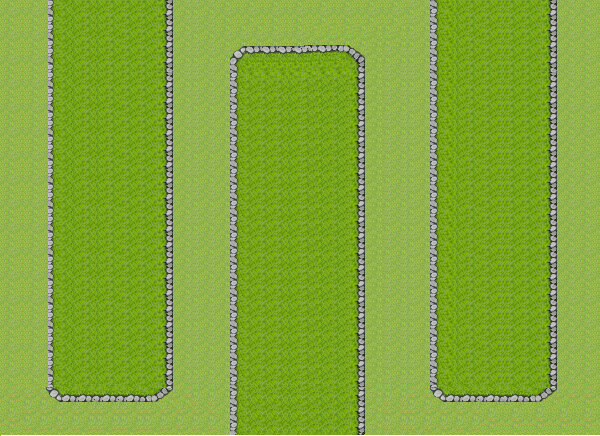
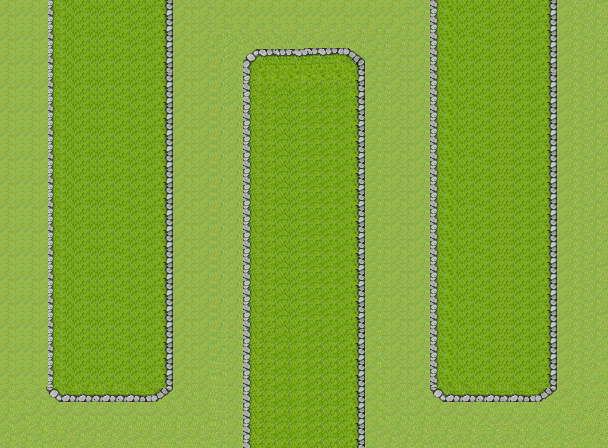
Updated map size and classes

diff --git a/tower_d/data/www/js/tower_d_libraries/Map.js b/tower_d/data/www/js/tower_d_libraries/Map.js
@@ -25,7 +25,7 @@ var Map = new Class({
         grid_is_displayed: false,
 
         //Cell size of the grid
-        cell_size: 24,
+        cell_size: 32,
 
         //Store a grid of all the cell objects. Should match up exactly
         //  to this.options.grid
@@ -33,26 +33,24 @@ var Map = new Class({
 
         //store a path
         path: [ //Top Left > Down
-                [1,0],[1,1],[1,2],[1,3],[1,4],[1,5],[1,6],[1,7],[1,8],[1,9],
-                [1,10], [1,11],[1,12],[1,13],[1,14],[1,15],[1,16],[1,17],
+                [0,0],[0,1],[0,2],[0,3],[0,4],[0,5],[0,6],[0,7],[0,8],[0,9],
+                [0,10], [0,11],[0,12],[0,13],
                 //Bottom Left > Right
-                [2,17],[3,17],[4,17],[5,17],[6,17],[7,17],[8,17],
+                [1,13],[2,13],[3,13],[4,13],[5,13],[6,13],
                 //Middle Left > Up
-                [8,16],[8,15],[8,14],[8,13],[8,12],[8,11],[8,10],[8,9],[8,8],
-                [8,7],[8,6],[8,5],[8,4],[8,3],[8,2],[8,1],[8,0],
+                [6,12],[6,11],[6,10],[6,9],[6,8],
+                [6,7],[6,6],[6,5],[6,4],[6,3],[6,2],[6,1],[6,0],
                 //Top Middle > Right
-                [9,0],[10,0],[11,0],[12,0],[13,0],[14,0],[15,0],[16,0],
+                [7,0],[8,0],[9,0],[10,0],[11,0],[12,0],
                 //Right Middle > Down
-                [16,1],[16,2],[16,3],[16,4],[16,5],[16,6],[16,7],[16,8],
-                [16,9],[16,10],[16,11],[16,12],[16,13],[16,14],[16,15],
-                [16,16],[16,17],
+                [12,1],[12,2],[12,3],[12,4],[12,5],[12,6],[12,7],[12,8],
+                [12,9],[12,10],[12,11],[12,12],[12,13],
                 //Right Bottom > Right
-                [17,17],[18,17],[18,17],[19,17],[20,17],[21,17],[22,17],
-                [23,17],[24,17],
+                [13,13],[14,13],[15,13],[16,13],[17,13],[18,13],
                 //Right Bottom > Top Right (To Goal)
-                [24,16],[24,15],[24,14],[24,13],[24,12],[24,11],[24,10],
-                [24,9],[24,8],[24,7],[24,6],[24,5],[24,4],[24,3],[24,2],
-                [24,1],[24,0]
+                [18,12],[18,11],[18,10],
+                [18,9],[18,8],[18,7],[18,6],[18,5],[18,4],[18,3],[18,2],
+                [18,1],[18,0]
             ] 
     },
 
@@ -66,24 +64,20 @@ var Map = new Class({
         if(this.options.grid === null){
             //Build a simple grid matrix
             this.options.grid = [
-                [0,0,1,1,1,1,1,0,0,0,0,0,0,0,0,0,0,0,1,1,1,1,1,0,0],
-                [0,0,1,1,1,1,1,0,0,0,0,0,0,0,0,0,0,0,1,1,1,1,1,0,0],
-                [0,0,1,1,1,1,1,0,0,0,1,1,1,1,1,0,0,0,1,1,1,1,1,0,0],
-                [0,0,1,1,1,1,1,0,0,0,1,1,1,1,1,0,0,0,1,1,1,1,1,0,0],
-                [0,0,1,1,1,1,1,0,0,0,1,1,1,1,1,0,0,0,1,1,1,1,1,0,0],
-                [0,0,1,1,1,1,1,0,0,0,1,1,1,1,1,0,0,0,1,1,1,1,1,0,0],
-                [0,0,1,1,1,1,1,0,0,0,1,1,1,1,1,0,0,0,1,1,1,1,1,0,0],
-                [0,0,1,1,1,1,1,0,0,0,1,1,1,1,1,0,0,0,1,1,1,1,1,0,0],
-                [0,0,1,1,1,1,1,0,0,0,1,1,1,1,1,0,0,0,1,1,1,1,1,0,0],
-                [0,0,1,1,1,1,1,0,0,0,1,1,1,1,1,0,0,0,1,1,1,1,1,0,0],
-                [0,0,1,1,1,1,1,0,0,0,1,1,1,1,1,0,0,0,1,1,1,1,1,0,0],
-                [0,0,1,1,1,1,1,0,0,0,1,1,1,1,1,0,0,0,1,1,1,1,1,0,0],
-                [0,0,1,1,1,1,1,0,0,0,1,1,1,1,1,0,0,0,1,1,1,1,1,0,0],
-                [0,0,1,1,1,1,1,0,0,0,1,1,1,1,1,0,0,0,1,1,1,1,1,0,0],
-                [0,0,1,1,1,1,1,0,0,0,1,1,1,1,1,0,0,0,1,1,1,1,1,0,0],
-                [0,0,1,1,1,1,1,0,0,0,1,1,1,1,1,0,0,0,1,1,1,1,1,0,0],
-                [0,0,1,1,1,1,1,0,0,0,1,1,1,1,1,0,0,0,1,1,1,1,1,0,0],
-                [0,0,0,0,0,0,0,0,0,0,1,1,1,1,1,0,0,0,1,1,1,1,1,0,0],
+                [0,0,1,1,1,0,0,0,0,0,0,0,0,0,1,1,1,0,0],
+                [0,0,1,1,1,0,0,0,0,0,0,0,0,0,1,1,1,0,0],
+                [0,0,1,1,1,0,0,0,1,1,1,0,0,0,1,1,1,0,0],
+                [0,0,1,1,1,0,0,0,1,1,1,0,0,0,1,1,1,0,0],
+                [0,0,1,1,1,0,0,0,1,1,1,0,0,0,1,1,1,0,0],
+                [0,0,1,1,1,0,0,0,1,1,1,0,0,0,1,1,1,0,0],
+                [0,0,1,1,1,0,0,0,1,1,1,0,0,0,1,1,1,0,0],
+                [0,0,1,1,1,0,0,0,1,1,1,0,0,0,1,1,1,0,0],
+                [0,0,1,1,1,0,0,0,1,1,1,0,0,0,1,1,1,0,0],
+                [0,0,1,1,1,0,0,0,1,1,1,0,0,0,1,1,1,0,0],
+                [0,0,1,1,1,0,0,0,1,1,1,0,0,0,1,1,1,0,0],
+                [0,0,1,1,1,0,0,0,1,1,1,0,0,0,1,1,1,0,0],
+                [0,0,0,0,0,0,0,0,1,1,1,0,0,0,1,1,1,0,0],
+                [0,0,0,0,0,0,0,0,1,1,1,0,0,0,0,0,0,0,0],
             ]
         }
 

diff --git a/tower_d/data/www/css/game_styles.css b/tower_d/data/www/css/game_styles.css
@@ -49,11 +49,11 @@
 }
     #game_world {
         border:2px solid #000000;
-        height:436px;
+        height:448px;
         margin:0 auto;
         overflow:hidden;
         position:relative;
-        width:600px;
+        width:608px;
     }
 /*---------------------------------
  * Right Side Bar
@@ -80,7 +80,8 @@
  * --------------------------------*/
     #map_container {
         /*The background is a map passed in.  This will be
-            procedurally generated*/
+            procedurally generated. Width and height are defined 
+            in #game_world */
         background:#225577 url(/tower_d/static/images/maps/map_1.png);
         height:100%;
         left:0;
@@ -96,24 +97,23 @@
         /*This grid container will show the grid overlaied on the map
          *  It is faster to show a single div overlaid vs. stylying many 
          *  cells individually */
-        #grid_display_container {
-            background:#225588 url(/tower_d/static/images/maps/cell_bg_24_24.png);
-            height:436px;
-            left:0;
-            position:absolute;
-            top:0;
-            width:600px;
-        }
-
         #grid_container {
-            height:436px;
+            height:448px;
             position:relative;
-            width:600px;
+            width:608px;
         }
+                #grid_display_container {
+                    background:#225588 url(/tower_d/static/images/maps/cell_bg_24_24.png);
+                    height:448px;
+                    left:0;
+                    position:absolute;
+                    top:0;
+                    width:608px;
+                }
+
             /*Cells*/
             .grid_cell {
-                background: rgba(50,100,150,.2);
-                _background: #225588;
+                background: #225588;
                 border-bottom: 1px solid rgba(0,0,0,.2);
                 border-right: 1px solid rgba(0,0,0,.2);
                 _border-bottom: 1px solid #232323;

diff --git a/tower_d/data/www/js/tower_d_libraries/Creep.js b/tower_d/data/www/js/tower_d_libraries/Creep.js
@@ -27,7 +27,7 @@ var Creep= new Class({
                 },
 
         //Grid position
-        pos_x: 1,
+        pos_x: 0,
         pos_y: 0,
         //position in the map's path array
         pos_path: 0,
@@ -397,7 +397,7 @@ var Creep= new Class({
        
         //Check if creep has reached the goal
         //TODO: THIS SHOULD BE AN EVENT
-        if(i === 0 && j === 24){
+        if(i === 0 && j === 18){
             //i,j are the end goal in this case
             this.reached_goal();
         }

diff --git a/tower_d/data/www/js/tower_d_libraries/Tower.js b/tower_d/data/www/js/tower_d_libraries/Tower.js
@@ -65,8 +65,8 @@ var Tower = new Class({
 
         //How far out the towers can shoot (in cells)
         level_range: 0,
-        base_range: 3,
-        range: 3,
+        base_range: 2,
+        range: 2,
         
         //Spped the bullet moves
         bullet_speed: 500,
